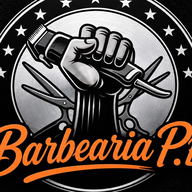
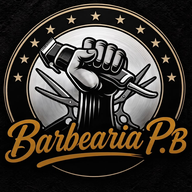
Add files via upload

diff --git a/index.html b/index.html
@@ -18,7 +18,7 @@ select:focus-visible{outline:2px solid #cfcfd4;outline-offset:2px}
 .modo-plano #secsvc,.modo-plano #telbox{display:none!important}
 .modo-plano:not(.tem-saldo) #secprof,.modo-plano:not(.tem-saldo) #secdia,.modo-plano:not(.tem-saldo) #secdados{display:none!important}
 
-:root{--laranja:#f47b20;--laranja2:#ff8a2e}
+:root{--laranja:#be7f22;--laranja2:#d49a35;--ouro-claro:#dac09a}
 .logo{display:block;width:100%;max-width:420px;height:auto;margin:0 auto;border-radius:14px}
 .svc[aria-pressed="true"],.slot[aria-pressed="true"]{background:var(--laranja)!important;border-color:var(--laranja)!important;color:#111!important}
 .svc[aria-pressed="true"] *,.slot[aria-pressed="true"] *{color:#111!important}
@@ -32,13 +32,17 @@ footer a{color:var(--laranja)}
 input:focus-visible,select:focus-visible,button:focus-visible{outline:2px solid var(--laranja)!important;outline-offset:2px}
 select:focus{border-color:var(--laranja)}
 details summary{color:var(--laranja)}
+.svc b{color:var(--laranja)}
+.svc:focus-visible,.slot:focus-visible{outline:2px solid var(--laranja)}
+input:focus,select:focus{border-color:var(--laranja)!important}
+footer{color:var(--ouro-claro)}
 </style>
 </head><body class="modo-normal">
 <main>
-<img class="logo" src="logo.jpeg" alt="Barbearia P.B">
+<img class="logo" src="logo.jpg" alt="Barbearia P.B">
 <div id="tabs" style="display:grid;grid-template-columns:1fr 1fr;gap:.6rem;margin:1rem 0">
 <button class="svc" data-modo="normal" aria-pressed="true"><span class="n">Agendar horário</span></button>
-<button class="svc" data-modo="plano" aria-pressed="false"><span class="n">Tenho plano</span></button></div>
+<button class="svc" data-modo="plano" aria-pressed="false"><span class="n">Planos</span></button></div>
 <section id="secbuy"><details><summary style="cursor:pointer;font-weight:600">Quer um plano? Pague uma vez e agende vários dias</summary>
 <div id="planos" style="display:grid;grid-template-columns:repeat(auto-fill,minmax(250px,1fr));gap:.7rem;margin-top:.8rem">Carregando...</div>
 <div id="pcompra" hidden><label for="pnome">Nome</label><input id="pnome" autocomplete="name">
@@ -59,7 +63,7 @@ details summary{color:var(--laranja)}
 <div id="resumo" class="resumo" hidden></div>
 <label for="nome">Nome</label><input id="nome" autocomplete="name">
 <div id="telbox"><label for="tel">WhatsApp</label><input id="tel" type="tel" autocomplete="tel" placeholder="(19) 90000-0000"></div>
-<div style="margin-top:1rem;padding:.8rem 1rem;border:1px dashed #f47b20;border-radius:10px;color:#f2f2f2;font-size:.92rem;line-height:1.4">⏱ <b>Atenção:</b> a tolerância de atraso é de <b>5 minutos</b>. Após esse tempo, o horário poderá ser cancelado.</div>
+<div style="margin-top:1rem;padding:.8rem 1rem;border:1px dashed var(--laranja);border-radius:10px;color:#f2f2f2;font-size:.92rem;line-height:1.4">⏱ <b>Atenção:</b> a tolerância de atraso é de <b>5 minutos</b>. Após esse tempo, o horário poderá ser cancelado.</div>
 <button class="main" id="ok" disabled>Confirmar e enviar no WhatsApp</button><div id="msg" class="msg" role="status"></div></section>
 <footer>Qualidade e Tradição · <a href="admin.html">Área do profissional</a></footer>
 </main>
